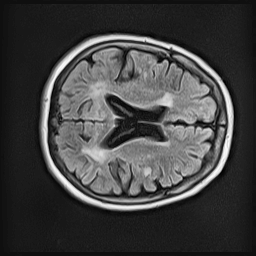
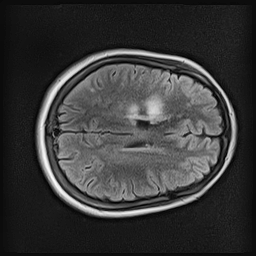
update hero

diff --git a/frontend/src/pages/Landing.tsx b/frontend/src/pages/Landing.tsx
@@ -1,14 +1,13 @@
 import type { AnalysisResult } from "../api/types";
-import mock from "../mocks/analysis.json";
+import heroResult from "../mocks/hero.json";
 import PlateAction from "../components/plate/PlateAction";
 import PlateFigure from "../components/plate/PlateFigure";
 import { HONESTY_LINE, NOT_A_DIAGNOSIS, PRODUCT_NAME } from "../brand";
 
-// The sample slice in public/plate/. The fixture's boxes were placed on this slice's visible
-// hyperintensities by hand (see public/plate/README.md); swap in the model's own result via
-// save_to_demo_cache() once it runs so the caption can drop "not model output".
+// The sample slice in public/plate/. Real RF-DETR detections on this slice, generated via
+// dev-scripts/find_hero_detections.py and copied to src/mocks/hero.json.
 const HERO_SLICE = "/plate/hero-slice.png";
-const hero = mock as AnalysisResult;
+const hero = heroResult as AnalysisResult;
 
 // Kaisey M, et al. Incidence of multiple sclerosis misdiagnosis in referrals to two academic
 // centers. Mult Scler Relat Disord. 2019;30:51-56. 241 referrals; 17% (Cedars-Sinai) and 19%
@@ -82,7 +81,7 @@ export default function Landing() {
         <PlateFigure
           result={hero}
           imageSrc={HERO_SLICE}
-          sourceNote="development fixture, not model output"
+          sourceNote="RF-DETR detection, MS3SEG test slice"
           aside={
             <div>
               <h2 className="wdth-wide text-balance font-medium tracking-plate leading-[1.06] text-[clamp(1.55rem,2.05vw,2.15rem)]">

diff --git a/frontend/src/components/plate/PlateFigure.tsx b/frontend/src/components/plate/PlateFigure.tsx
@@ -210,8 +210,8 @@ export default function PlateFigure({
       <div className="lg:col-start-2 lg:row-start-1 order-1">{aside}</div>
 
       {/* Figure */}
-      <figure
-        className={`lg:col-start-1 lg:row-start-1 lg:row-span-3 order-2 min-w-0 ${
+            <figure
+        className={`lg:col-start-1 lg:row-start-1 lg:row-span-3 order-2 min-w-0 lg:max-w-[calc(100vh-12rem)] ${
           ordered.length > MAX_LEADERS ? "lg:sticky lg:top-6 lg:self-start" : ""
         }`}
       >

diff --git a/frontend/src/pages/Analyze.tsx b/frontend/src/pages/Analyze.tsx
@@ -240,7 +240,7 @@ export default function Analyze() {
             </div>
 
             {/* Figure: the frame, empty or holding the slice */}
-            <figure className="lg:col-start-1 lg:row-start-1 lg:row-span-3 order-2 min-w-0">
+            <figure className="lg:col-start-1 lg:row-start-1 lg:row-span-3 order-2 min-w-0 lg:max-w-[calc(100vh-12rem)]">
               <PlateIntake
                 onFile={submit}
                 onChoose={chooseFile}

diff --git a/dev-scripts/find_hero_slice.py b/dev-scripts/find_hero_slice.py
@@ -1,0 +1,37 @@
+import sys, json
+from pathlib import Path
+sys.path.insert(0, str(Path(__file__).resolve().parents[1]))
+
+from ml.pipeline import run_pipeline
+from backend.app.services import gemini
+
+REPO_ROOT = Path(__file__).resolve().parents[1]
+test_dir = REPO_ROOT / "data/processed/ms3seg_dataset/test"
+candidates = sorted(test_dir.glob("*.png"))
+
+MIN_CONFIDENCE = 0.55
+
+best = None
+for p in candidates:
+    b = p.read_bytes()
+    result = run_pipeline(b)
+    n = len(result.lesions)
+    if 3 <= n <= 5 and all(l.confidence >= MIN_CONFIDENCE for l in result.lesions):
+        patterns = {l.pattern for l in result.lesions}
+        mixed = len(patterns) > 1
+        confidences = [round(l.confidence, 2) for l in result.lesions]
+        print(f"candidate: {p.name} — {n} lesions, mixed={mixed}, confidences={confidences}")
+        # prefer mixed, then prefer closer to 4
+        score = (mixed, -abs(n - 4))
+        if best is None or score > best[0]:
+            best = (score, p, b, result)
+
+if best is None:
+    print("No slice with exactly 4 lesions found.")
+else:
+    _, p, b, result = best
+    print(f"\nPICKED: {p} — 4 lesions")
+    result.summary = gemini.summarize(result)
+    (REPO_ROOT / "frontend/public/plate/hero-slice.png").write_bytes(b)
+    (REPO_ROOT / "frontend/src/mocks/hero.json").write_text(result.model_dump_json(indent=2))
+    print("Overwrote hero-slice.png and hero.json.")
